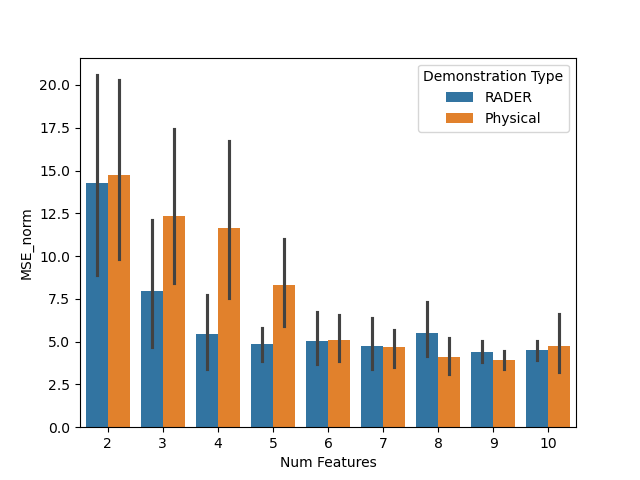
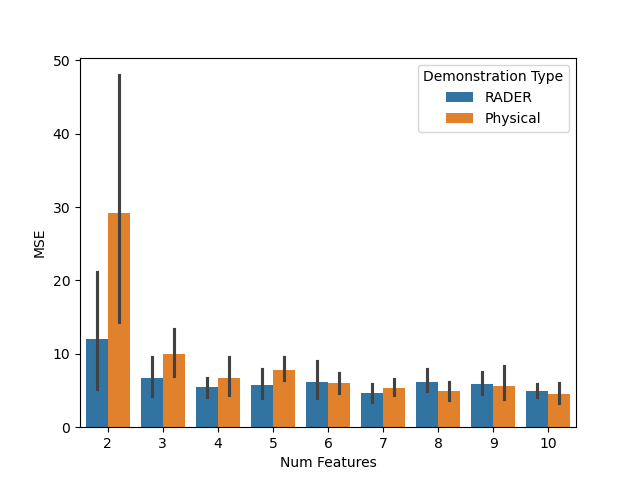
Updating figures.

Changed region(s): [[0.2188, 0.2812, 0.9062, 0.8438], [0.0312, 0.125, 0.2188, 0.8125], [0.0625, 0.875, 0.125, 0.9062]]

diff --git a/ferl/experiment_utils/experiment_metrics.py b/ferl/experiment_utils/experiment_metrics.py
@@ -33,7 +33,7 @@ p3 = [3.09983027, 5.1572305 ]
 learned_weights_from_pushes_cases = [p1, p2, p3]
 
 # traces_file_cases = ["laptop", "table", "proxemics"]
-feature = "table"
+feature = "coffee"
 
 # some settings for TrajOpt
 FEAT_RANGE = {'table':0.98, 'coffee':1.0, 'laptop':0.3, 'human':0.3, 'efficiency':0.22, 'proxemics': 0.3, 'betweenobjects': 0.2, 'learned_feature':1.0}
@@ -45,8 +45,8 @@ timestep=0.5
 # LF_dict = {'bet_data':5, 'sin':False, 'cos':False, 'rpy':False, 'lowdim':False, 'norot':True,
 #            'noangles':True, '6D_laptop':False, '6D_human':False, '9D_coffee':False, 'EErot':False,
 #            'noxyz':False, 'subspace_heuristic':False}
-LF_dict = {'bet_data':5, 'sin':False, 'cos':False, 'rpy':False, 'lowdim':False, 'norot':True,
-           'noangles':True, '6D_laptop':False, '6D_human':False, '9D_coffee':False, 'EErot':False,
+LF_dict = {'bet_data':5, 'sin':False, 'cos':False, 'rpy':False, 'lowdim':False, 'norot':False,
+           'noangles':True, '6D_laptop':False, '6D_human':False, '9D_coffee':True, 'EErot':False,
            'noxyz':False, 'subspace_heuristic':False}
 
 # Step 0: Create environment with known feature & initialize learned feature
@@ -121,13 +121,13 @@ for n in range(2, 11):
         sim_env.feature_list.append('learned_feature')
         sim_env.num_features += 1
         sim_env.feature_func_list.append(sim_unknown_feature.function)
-        sim_env.weights = p2
+        sim_env.weights = p1
 
         phys_env.learned_features.append(phys_unknown_feature)
         phys_env.feature_list.append('learned_feature')
         phys_env.num_features += 1
         phys_env.feature_func_list.append(phys_unknown_feature.function)
-        phys_env.weights = p2
+        phys_env.weights = p1
 
         # Compute learned feature MSE for simulated environment
         sim_features = np.array([[sim_unknown_feature.function(raw_waypts[i], norm=True) 

diff --git a/ferl/experiment_utils/plot_learned_features.py b/ferl/experiment_utils/plot_learned_features.py
@@ -22,13 +22,13 @@ from utils.plot_utils import *
 # %%
 # Settings for the different cases
 feat_list_cases = [["coffee","table", "laptop"],["coffee","laptop", "table"], ["coffee","table", "proxemics"]]
-weights_cases = [[0.0, 10.0, 0.0], [0.0, 10.0, 0.0], [0.0, 10.0, 0.0]]
+weights_cases = [[10.0, 10.0, 0.0], [10.0, 10.0, 0.0], [0.0, 10.0, 0.0]]
 known_features_cases = [["coffee", "table"], ["coffee", "laptop"], ["coffee", "table"]]
 # known_features_cases = [["coffee", "proxemics"], ["coffee", "proxemics"], ["coffee", "proxemics"]]
 known_weights = [0., 0.]
 
-traces_file_cases = ["laptop", "table", "proxemics"]
-# traces_file_cases = ["table"]
+# traces_file_cases = ["laptop", "table", "proxemics"]
+traces_file_cases = ["coffee"]
 traces_idx = np.arange(10).tolist()
 
 # learned weights from pushes
@@ -48,8 +48,8 @@ timestep=0.5
 # LF_dict = {'bet_data':5, 'sin':False, 'cos':False, 'rpy':False, 'lowdim':False, 'norot':True,
 #            'noangles':True, '6D_laptop':False, '6D_human':False, '9D_coffee':False, 'EErot':False,
 #            'noxyz':False, 'subspace_heuristic':False}
-LF_dict = {'bet_data':5, 'sin':False, 'cos':False, 'rpy':False, 'lowdim':False, 'norot':True,
-           'noangles':True, '6D_laptop':False, '6D_human':False, '9D_coffee':False, 'EErot':False,
+LF_dict = {'bet_data':5, 'sin':False, 'cos':False, 'rpy':False, 'lowdim':False, 'norot':False,
+           'noangles':True, '6D_laptop':False, '6D_human':False, '9D_coffee':True, 'EErot':False,
            'noxyz':False, 'subspace_heuristic':False}
 
 # %% [markdown]
